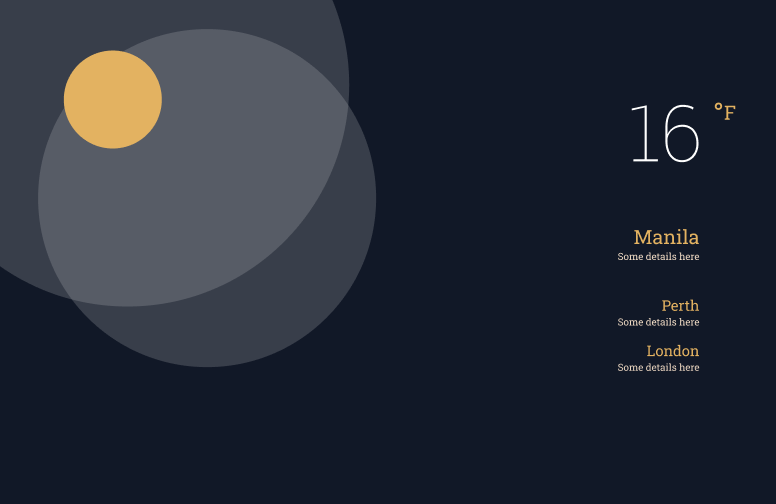
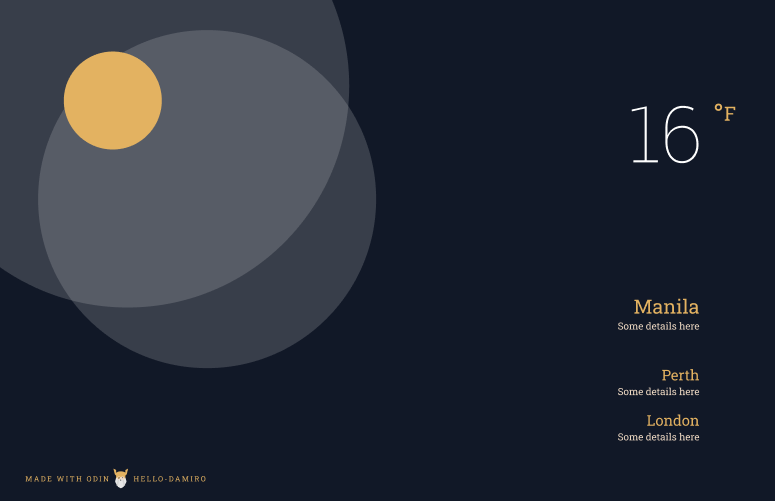
basic HTML structure

diff --git a/src/styles/style.css b/src/styles/style.css
@@ -27,4 +27,76 @@
 body {
     background-color: var(--blue);
     font-family: 'Roboto Slab';
+    width: 100%;
+    height: 100vh;
+}
+
+a {
+    text-decoration: none;
+    color: var(--yellow);
+}
+
+a:hover {
+    color: var(--yellow-lt);
+}
+
+.bg {
+    position: absolute;
+    top: 0;
+    left: 0;
+    width: 100%;
+    height: 100%;
+    /* background: red; */
+}
+
+.weather {
+    position: absolute;
+    top: 100px;
+    right: 120px;
+    bottom: 100px;
+    color: var(--yellow-lt);
+    display: flex;
+    flex-direction: column;
+    justify-content: space-between;
+    text-align: right;
+}
+
+.temp {
+    font-size: 8rem;
+    font-weight: 100;
+    margin-right: -6px;
+}
+
+.city {
+    color: var(--yellow);
+    font-size: 1.4rem;
+    margin: 8px 0;
+}
+
+.main-city {
+    padding-bottom: 72px;
+}
+
+.main-city .city {
+    font-size: 2rem;
+}
+
+.city-details {
+    margin-bottom: 32px;
+}
+
+footer {
+    text-transform: uppercase;
+    letter-spacing: 0.1rem;
+    font-size: 0.8rem;
+    display: flex;
+    flex: 1;
+    align-items: center;
+    position: sticky;
+    top: 100vh;
+    padding: 16px 32px;
+}
+
+footer img {
+    margin: 0 8px;
 }

diff --git a/src/template.html b/src/template.html
@@ -9,7 +9,29 @@
 </head>
 
 <body>
-
+    <div class="bg"></div>
+    <div class="weather">
+        <div class="temp">16</div>
+        <div class="cities">
+            <div class="main-city">
+                <div class="city">Manila</div>
+                <div class="city-details">Some details here</div>
+            </div>
+            <div class="some-city">
+                <div class="city">Perth</div>
+                <div class="city-details">Some details here</div>
+            </div>
+            <div class="some-city">
+                <div class="city">London</div>
+                <div class="city-details">Some details here</div>
+            </div>
+        </div>
+    </div>
+    <footer>
+        <a href="https://www.theodinproject.com/">Made with Odin</a>
+        <img src="./assets/images/logo-odin-colored.svg" alt="Odin">
+        <a href="https://github.com/hello-damiro/">hello-damiro</a>
+    </footer>
 </body>
 
 </html>

diff --git a/webpack.config.js b/webpack.config.js
@@ -18,14 +18,14 @@ module.exports = {
         },
         port: 8080,
         open: true, // open browser
-        hot: true, // hot reload
+        hot: false, // hot reload
         liveReload: true, // live reload
         compress: true, // enable gzip compression
         historyApiFallback: true, // enable browser history fallback
     },
     plugins: [
         new HtmlWebpackPlugin({
-            title: 'Webpack Boilerplate', // Title that will reflect of HTML file
+            title: 'Odin Weather', // Title that will reflect of HTML file
             filename: 'index.html', // dist/index.html
             template: 'src/template.html', // src/template.html
             favicon: 'src/assets/images/favicon.png', // favicon
